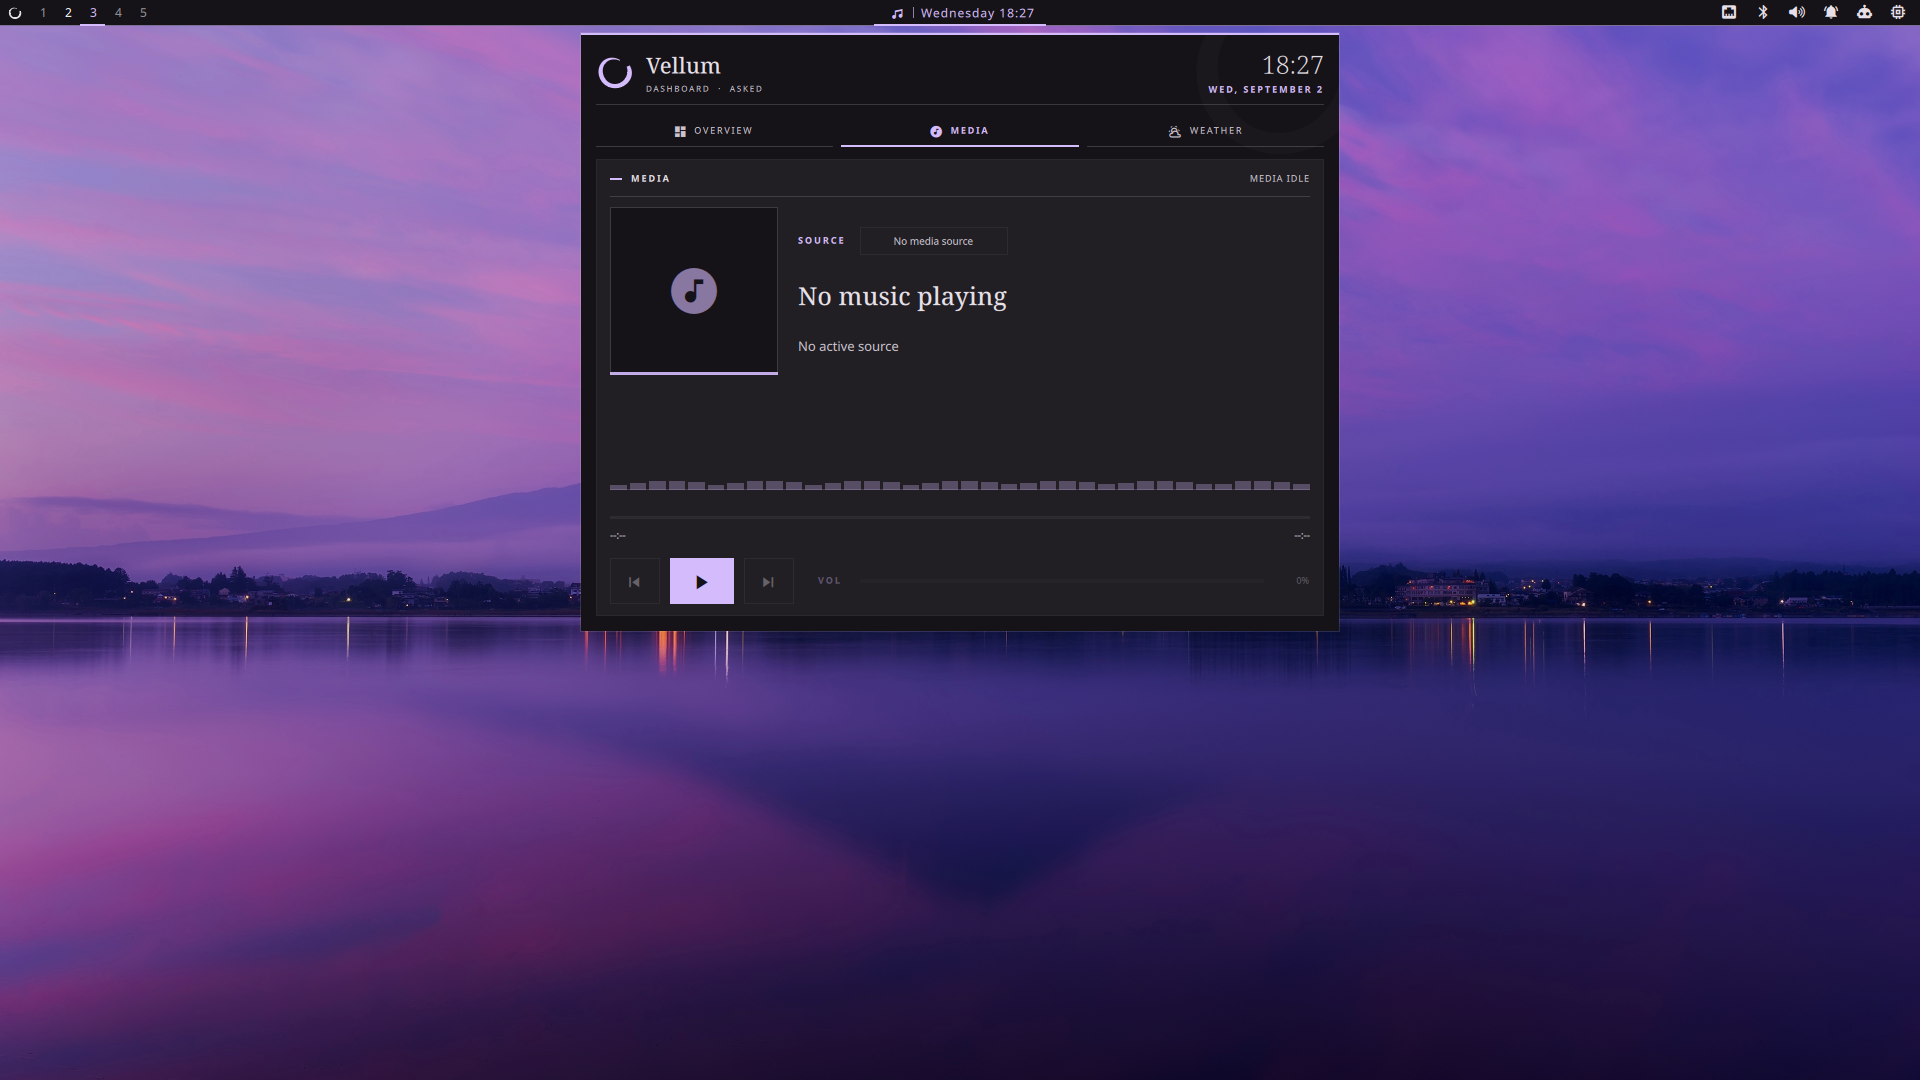
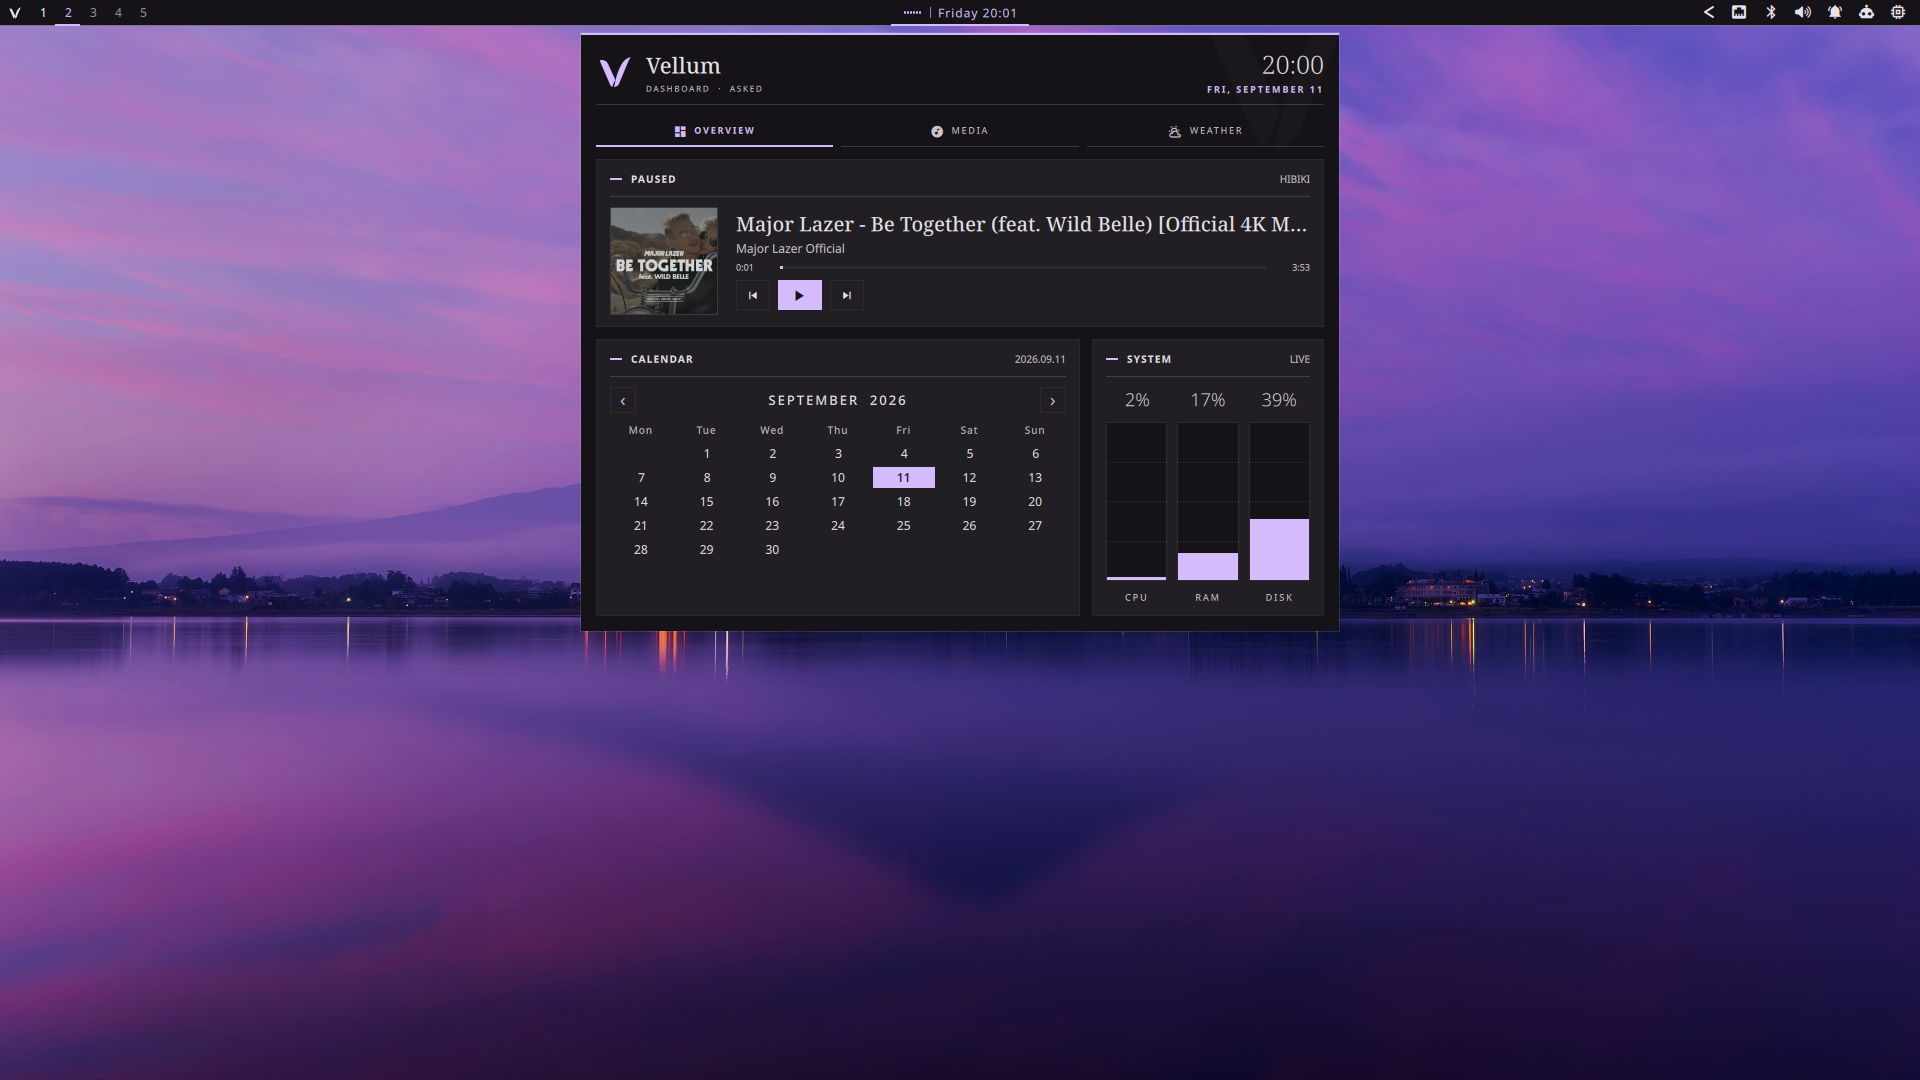
few fix

diff --git a/features/media/MediaCard.qml b/features/media/MediaCard.qml
@@ -28,12 +28,12 @@ Item {
     readonly property bool isPlaying: player && player.playbackState === MprisPlaybackState.Playing
     readonly property real currentPosition: livePosition >= 0 ? livePosition : (player ? player.position : 0)
     readonly property string statusLabel: !player
-        ? "MEDIA IDLE"
-        : (player.playbackState === MprisPlaybackState.Playing ? "NOW PLAYING" : "MEDIA PAUSED")
+        ? ""
+        : (player.playbackState === MprisPlaybackState.Playing ? "NOW PLAYING" : "PAUSED")
     readonly property string trackTitle: player && player.trackTitle !== "" ? player.trackTitle : "No music playing"
     readonly property string trackArtist: player && player.trackArtist !== ""
         ? player.trackArtist
-        : (player && player.identity ? player.identity : "No active source")
+        : (player && player.identity ? player.identity : "")
 
     function playerIcon(value) {
         if (!value) return ""
@@ -105,9 +105,9 @@ Item {
         visible: card.compact
         theme: card.theme
         editorial: true
-        title: card.statusLabel
+        title: card.player ? card.statusLabel : "MEDIA"
         kanji: ""
-        trailing: card.player && card.player.identity ? card.player.identity.toUpperCase() : "NO SOURCE"
+        trailing: card.player && card.player.identity ? card.player.identity.toUpperCase() : ""
 
         Rectangle {
             id: compactArtFrame
@@ -162,6 +162,7 @@ Item {
                 color: card.muted
                 font.pixelSize: 12
                 elide: Text.ElideRight
+                visible: text !== ""
                 verticalAlignment: Text.AlignVCenter
             }
 
@@ -298,6 +299,7 @@ Item {
                     id: sourceStrip
                     width: parent.width
                     height: 28
+                    visible: card.players.length > 0
 
                     Text {
                         id: sourceLabel
@@ -306,7 +308,7 @@ Item {
                         text: "SOURCE"
                         color: card.accent
                         font.pixelSize: 9
-                        font.letterSpacing: 2
+                        font.letterSpacing: 1.2
                         font.bold: true
                     }
 
@@ -371,16 +373,6 @@ Item {
                                     }
                                 }
                             }
-
-                            Rectangle {
-                                width: 148
-                                height: 28
-                                visible: card.players.length === 0
-                                color: "transparent"
-                                border.color: card.lineBg
-                                border.width: 1
-                                Text { anchors.centerIn: parent; text: "No media source"; color: card.muted; font.pixelSize: 10 }
-                            }
                         }
                     }
                 }
@@ -405,6 +397,7 @@ Item {
                     color: card.muted
                     font.pixelSize: 13
                     elide: Text.ElideRight
+                    visible: text !== ""
                 }
             }
         }
@@ -547,7 +540,7 @@ Item {
                 height: 46
                 opacity: card.volumeSupported(card.player) ? 1 : 0.35
 
-                Text { anchors.left: parent.left; anchors.verticalCenter: parent.verticalCenter; text: "VOL"; color: card.accent; font.pixelSize: 9; font.letterSpacing: 2; font.bold: true }
+                Text { anchors.left: parent.left; anchors.verticalCenter: parent.verticalCenter; text: "VOL"; color: card.accent; font.pixelSize: 9; font.letterSpacing: 1.2; font.bold: true }
 
                 Rectangle {
                     id: volumeTrack

diff --git a/features/launcher/LauncherPopup.qml b/features/launcher/LauncherPopup.qml
@@ -744,35 +744,11 @@ PanelWindow {
                         }
 
                         Text {
-                            text: "SEARCH  ·  COMMAND  ·  OPEN"
+                            text: "Apps, actions and emoji"
                             color: mutedFg
-                            font.pixelSize: 8
-                            font.letterSpacing: 1.8
+                            font.pixelSize: 10
                         }
 
-                    }
-
-                    Column {
-                        anchors.right: parent.right
-                        anchors.verticalCenter: parent.verticalCenter
-                        spacing: 3
-
-                        Text {
-                            anchors.right: parent.right
-                            text: projectMode ? "PROJECTS" : "UNIFIED SEARCH"
-                            color: panelAccent
-                            font.pixelSize: 8
-                            font.bold: true
-                            font.letterSpacing: 1.8
-                        }
-
-                        Text {
-                            anchors.right: parent.right
-                            text: "TAB CHANGES MODE"
-                            color: mutedFg
-                            font.family: "monospace"
-                            font.pixelSize: 8
-                        }
                     }
 
                 }
@@ -837,9 +813,9 @@ PanelWindow {
                                 Text {
                                     text: modelData.label
                                     color: activeMode ? panelAccent : mutedFg
-                                    font.pixelSize: 9
+                                    font.pixelSize: 10
                                     font.bold: activeMode
-                                    font.letterSpacing: 1.8
+                                    font.letterSpacing: 1.1
                                 }
 
                             }
@@ -868,8 +844,8 @@ PanelWindow {
                         anchors.left: parent.left
                         text: modeTitle + "  ·  " + visibleItems.length + (visibleItems.length === 1 ? " RESULT" : " RESULTS")
                         color: panelAccent
-                        font.pixelSize: 8
-                        font.letterSpacing: 2
+                        font.pixelSize: 9
+                        font.letterSpacing: 1.2
                         font.bold: true
                     }
 
@@ -878,7 +854,7 @@ PanelWindow {
                         text: "↑↓  SELECT     ENTER  OPEN     ESC  CLOSE"
                         color: mutedFg
                         font.family: "monospace"
-                        font.pixelSize: 8
+                        font.pixelSize: 9
                     }
 
                 }

diff --git a/ui/DashPanel.qml b/ui/DashPanel.qml
@@ -52,8 +52,8 @@ Rectangle {
                 anchors.verticalCenter: parent.verticalCenter
                 text: panel.title
                 color: panel.editorial ? panel.foreground : panel.accent
-                font.pixelSize: 9
-                font.letterSpacing: panel.editorial ? 2 : 3
+                font.pixelSize: 10
+                font.letterSpacing: panel.editorial ? 1.2 : 1.5
                 font.bold: true
             }
 
@@ -62,7 +62,7 @@ Rectangle {
                 text: panel.kanji
                 color: panel.muted
                 font.pixelSize: 10
-                font.letterSpacing: 2
+                font.letterSpacing: 1
                 opacity: 0.75
                 visible: panel.kanji !== ""
             }
@@ -73,8 +73,7 @@ Rectangle {
             anchors.verticalCenter: parent.verticalCenter
             text: panel.trailing
             color: panel.muted
-            font.pixelSize: 9
-            font.letterSpacing: 1
+            font.pixelSize: 10
             visible: panel.trailing !== ""
         }
     }

diff --git a/features/settings/SettingsSection.qml b/features/settings/SettingsSection.qml
@@ -45,10 +45,9 @@ Item {
         Text {
             width: parent.width
             visible: section.showDescription && section.description !== ""
-            text: section.description.toUpperCase()
+            text: section.description
             color: section.muted
-            font.pixelSize: 7
-            font.letterSpacing: 1.1
+            font.pixelSize: 10
             elide: Text.ElideRight
         }
     }

diff --git a/ui/PopupHeader.qml b/ui/PopupHeader.qml
@@ -44,10 +44,10 @@ Item {
 
         Text {
             width: parent.width
-            text: header.subtitle.toUpperCase()
+            visible: header.subtitle !== ""
+            text: header.subtitle
             color: header.muted
-            font.pixelSize: 8
-            font.letterSpacing: 1.3
+            font.pixelSize: 10
             elide: Text.ElideRight
         }
     }

diff --git a/ui/DashTile.qml b/ui/DashTile.qml
@@ -66,8 +66,8 @@ Rectangle {
             anchors.horizontalCenter: parent.horizontalCenter
             text: tile.label
             color: tile.muted
-            font.pixelSize: 8
-            font.letterSpacing: 1
+            font.pixelSize: 9
+            font.letterSpacing: 0.6
             visible: tile.label !== ""
         }
     }

diff --git a/AGENTS.md b/AGENTS.md
@@ -32,6 +32,21 @@ Read `README.md` for supported behavior and `layout.md` for the detailed archite
 - Do not hand-edit generated runtime files such as `current-theme`, `gtk-theme.css`, `kitty-theme.conf`, `zen-theme.css`, or `sddm/vellum-ink/theme.conf` unless the task is specifically about generated output. Edit the palette, template, or generator instead.
 - Do not run `setup.sh`, `install.sh`, `scripts/backend-install`, package helpers, power actions, or lock-screen actions as routine validation: they modify the live desktop or system.
 
+## UI style rules
+
+- Use four typography tiers in QML: display/title is 18–26 px and usually serif; section headings are 13–17 px at Medium or DemiBold; body and control text is 11–13 px; metadata and hints are 9–10 px.
+- Do not introduce visible UI text below 9 px. Reserve 9 px for short metadata, counters, timestamps, and keyboard hints; prose and actionable labels must be at least 10 px.
+- Keep sentence-style supporting text in mixed case with zero letter spacing. Uppercase labels must be at most two words and use 0.8–1.5 px letter spacing; exceed 1.5 px only for intentional lock-screen, password, passkey, or clock treatments.
+- Use serif for display hierarchy, sans-serif for labels and prose, and monospace only for fixed-width values, technical identifiers, or keyboard hints.
+- Use `foreground` for primary content, `muted` for supporting information, and `accent` for active, selected, focused, or actionable states. Give a panel one dominant accent treatment; do not color every heading or metadata line with the accent.
+- Keep readable secondary text at full opacity or at least `0.7`. Lower opacity is for decoration, inactive indicators, dividers, and disabled content, not for essential labels.
+- Follow a 4 px spacing rhythm. Prefer 4, 8, 12, 16, and 24 px gaps and padding; use another value only when alignment or a compact control requires it.
+- A panel or card gets one title and at most one supporting metadata line before its content. Do not repeat the same state in a title, trailing label, badge, and empty-state message; one clear empty-state sentence is enough unless an action is available.
+- Keep compact interactive targets at least 28 px high and settings rows or primary list rows at least 44 px high. Visual glyphs may be smaller, but their hit area must meet the target size.
+- When a visual pattern appears in two or more features, refine the reusable component in `ui/` instead of adding divergent feature-local styling. Keep `ui/` feature-independent.
+- Render user-provided, clipboard, and notification content as `Text.PlainText`. Choose wrapping or elision explicitly, and never reduce body text below the typography scale to make metadata fit.
+- For new UI and any visual cluster being modified, apply these rules to the whole cluster so adjacent labels do not retain conflicting sizes or tracking. Preserve deliberately atmospheric lock-screen and SDDM typography unless the task targets it.
+
 ## Validation
 
 `scripts/check` runs every gate below in one go and skips the tools that are not
